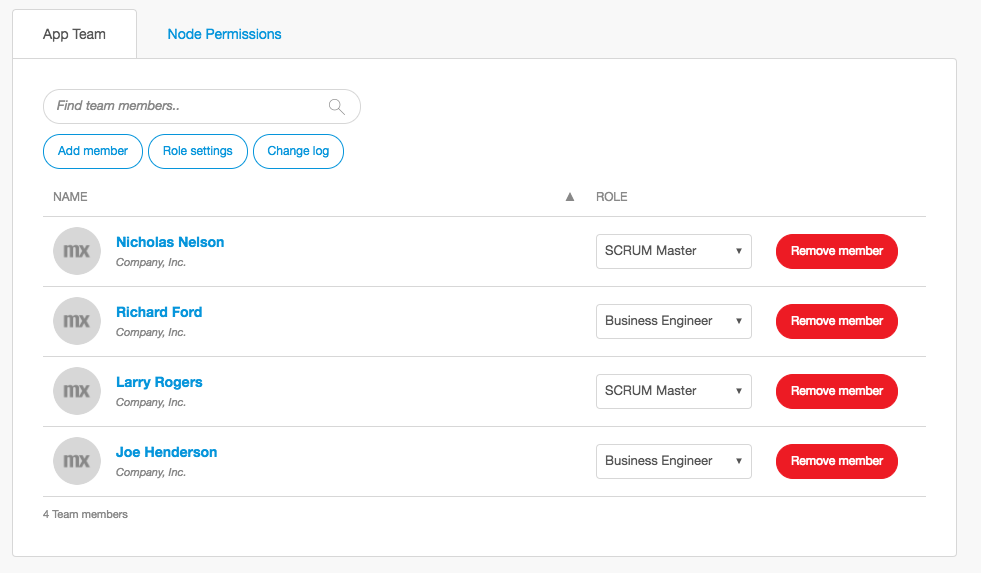
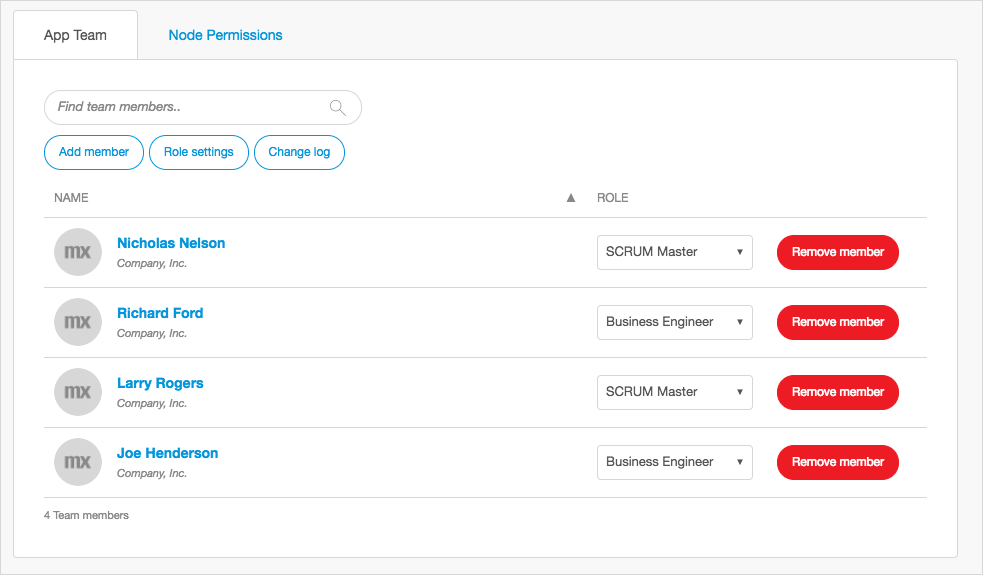
Update

diff --git a/content/evaluation-guide/app-lifecycle/feedback-management.md b/content/evaluation-guide/app-lifecycle/feedback-management.md
@@ -38,7 +38,9 @@ When a feedback item is accepted, the associated user story has the same metadat
 
 The development team can review and triage feedback items in the **Feedback** section of the Developer Portal. They can then communicate with the submitter of the feedback item through messages on the Buzz thread under the feedback item.
 
+{{% image_container width="600" %}}
 ![](attachments/feedback-buzz.png)
+{{% /image_container %}}
 
 End-users can keep track of submitted feedback through the Developer Portal and post updates and replies to questions. As with all Buzz activity, email notifications are sent when someone replies to your post. Users can quickly open the Developer Portal from those emails, or just reply by email to post a response.
 

diff --git a/content/evaluation-guide/app-lifecycle/collaboration-channels.md b/content/evaluation-guide/app-lifecycle/collaboration-channels.md
@@ -48,7 +48,9 @@ Any developer, product manager, key end-user, or other stakeholder collaborating
 
 All the users involved in a Mendix application project receive relevant and timely email notifications for the Buzz and other updates of interest. This includes responses to submitted feedback items and status changes (for example, feedback items that have been completed).
 
+{{% image_container width="600" %}}
 ![](attachments/buzz-notification.png)
+{{% /image_container %}}
 
 ### 1.5 How Can Stakeholders Get Involved via the Central Buzz? {#buzz}
 
